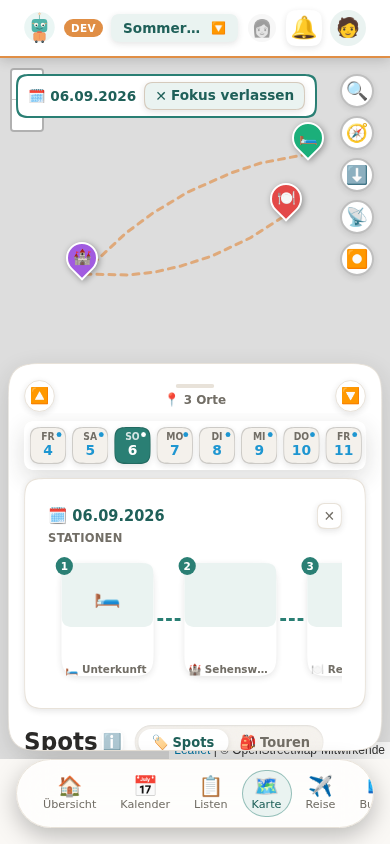
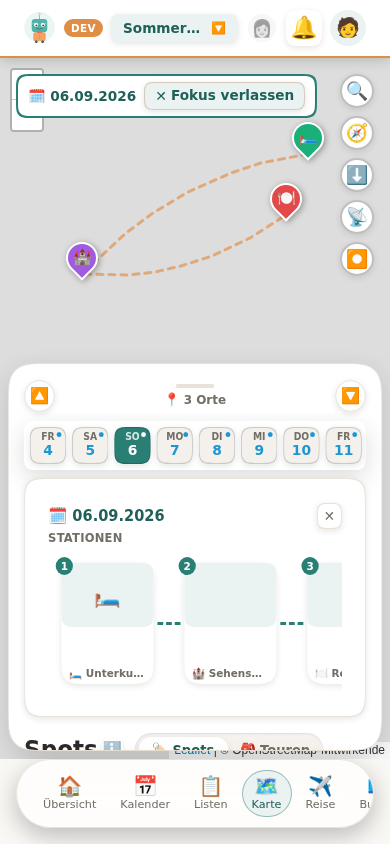
Mehr Padding in MiniStationCard (Review-Feedback #173)
Icon/Titel saßen laut Review-Kommentar trotz vorherigem Fix immer noch
zu dicht am Rand der Spot-Kästchen in der Tagesansicht-Box - Padding
von 4px horizontal auf 4px/8px (vertikal/horizontal) erhöht.

diff --git a/frontend/src/components/MiniStationCard.vue b/frontend/src/components/MiniStationCard.vue
@@ -49,7 +49,7 @@ defineProps<{ station: ExcursionStation }>();
   display: flex;
   flex-direction: column;
   gap: 2px;
-  padding: 0 var(--space-1);
+  padding: var(--space-1) var(--space-2);
 }
 
 .title {
